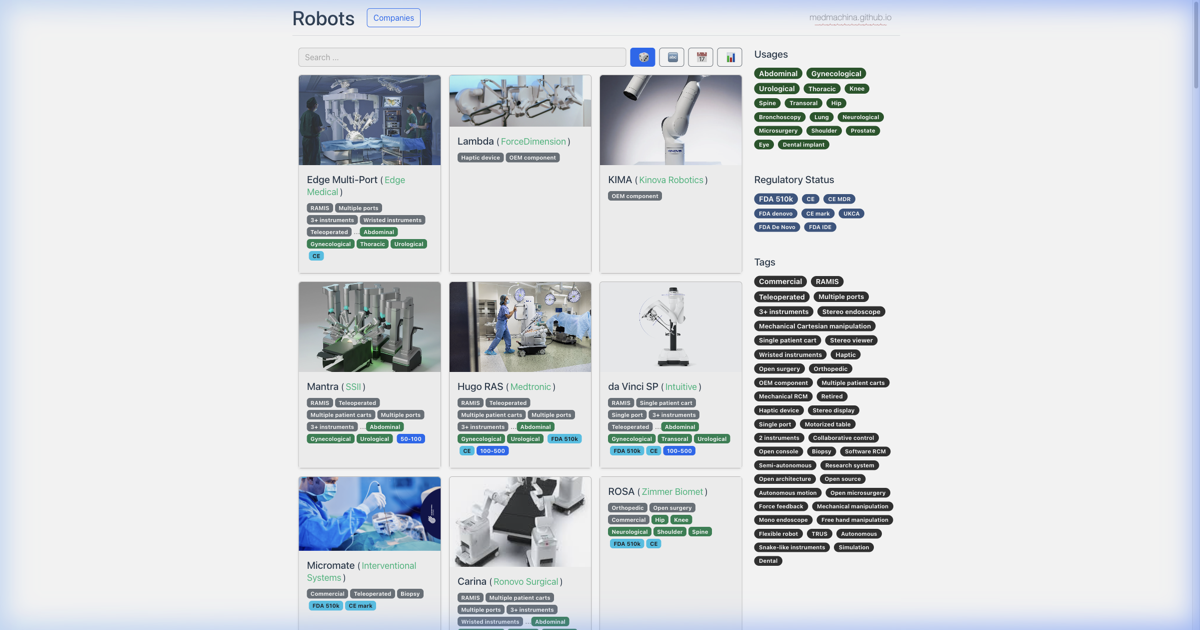
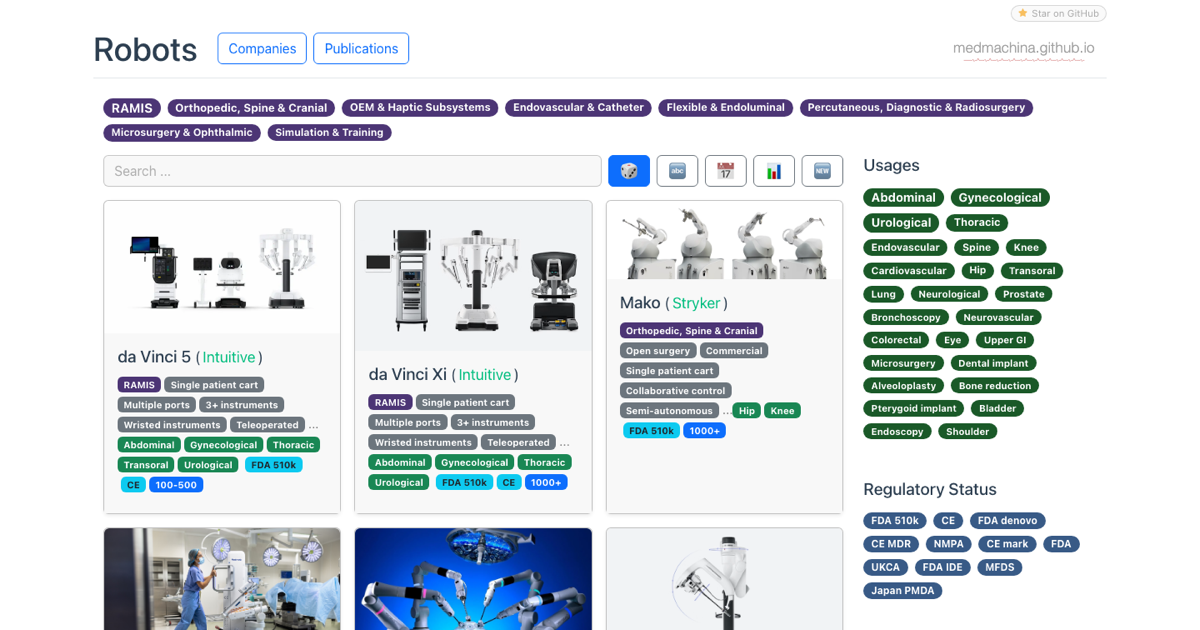
feat: add Twitter card meta tags and optimize SEO image selection for social previews

diff --git a/index.html b/index.html
@@ -17,12 +17,18 @@
     <meta name="description" content="A spare-time, best-effort directory listing medical and surgical robotics systems, companies, and regulatory approvals. Community contributions are welcome!" />
     <meta name="author" content="Med Machina" />
     <link rel="canonical" href="https://medmachina.github.io/" />
-    <!-- Open Graph meta tags -->
+    <!-- Open Graph & Social Preview meta tags -->
     <meta property="og:title" content="Medical Robots Directory | Med Machina" />
     <meta property="og:description" content="A spare-time, best-effort directory listing medical and surgical robotics systems, companies, and regulatory approvals. Community contributions are welcome!" />
     <meta property="og:image" content="https://medmachina.github.io/og/og-home.png" />
+    <meta property="og:image:width" content="1200" />
+    <meta property="og:image:height" content="630" />
     <meta property="og:type" content="website" />
     <meta property="og:url" content="https://medmachina.github.io/" />
+    <meta name="twitter:card" content="summary_large_image" />
+    <meta name="twitter:title" content="Medical Robots Directory | Med Machina" />
+    <meta name="twitter:description" content="A spare-time, best-effort directory listing medical and surgical robotics systems, companies, and regulatory approvals. Community contributions are welcome!" />
+    <meta name="twitter:image" content="https://medmachina.github.io/og/og-home.png" />
     <script type="application/ld+json">
     {
       "@context": "https://schema.org",

diff --git a/src/utils/seo.js b/src/utils/seo.js
@@ -47,12 +47,17 @@ export function updateSeo({
   // 3. Meta Description
   setMeta('meta[name="description"]', 'content', description);
 
-  // 4. Open Graph Tags
+  // 4. Open Graph & Twitter Card Tags
+  const fullImage = image.startsWith('http') ? image : `${BASE_URL}${image}`;
   setMeta('meta[property="og:title"]', 'content', title);
   setMeta('meta[property="og:description"]', 'content', description);
   setMeta('meta[property="og:url"]', 'content', canonicalUrl);
   setMeta('meta[property="og:type"]', 'content', type);
-  setMeta('meta[property="og:image"]', 'content', image.startsWith('http') ? image : `${BASE_URL}${image}`);
+  setMeta('meta[property="og:image"]', 'content', fullImage);
+  setMeta('meta[name="twitter:card"]', 'content', 'summary_large_image');
+  setMeta('meta[name="twitter:title"]', 'content', title);
+  setMeta('meta[name="twitter:description"]', 'content', description);
+  setMeta('meta[name="twitter:image"]', 'content', fullImage);
 
   // 5. JSON-LD Structured Data
   let jsonLdEl = document.getElementById('seo-jsonld');

diff --git a/src/components/HomeComponent.vue b/src/components/HomeComponent.vue
@@ -58,7 +58,25 @@ onMounted(async () => {
       return
     }
     originalItems.value = robots
-    items.value = shuffleArray(robots)
+    if (route.query.og === '1') {
+      const priorityIds = [
+        'intuitive_da_vinci_5',
+        'intuitive_da_vinci_Xi',
+        'stryker_mako',
+        'medtronic_hugo_ras',
+        'cmr_versius',
+        'intuitive_da_vinci_SP',
+        'j&j_ottava',
+        'globus_excelsius_gps',
+        'intuitive_ion'
+      ]
+      const byId = new Map(robots.map(r => [r.id, r]))
+      const top = priorityIds.map(id => byId.get(id)).filter(Boolean)
+      const rest = robots.filter(r => !priorityIds.includes(r.id) && r.photos && r.photos.length > 0)
+      items.value = [...top, ...rest]
+    } else {
+      items.value = shuffleArray(robots)
+    }
   } catch (err) {
     robotsError.value = `Error loading robots.json: ${err}`
   }

diff --git a/src/components/RobotDetail.vue b/src/components/RobotDetail.vue
@@ -277,7 +277,9 @@ function selectRobotById(id) {
     const compName = companyInfo.value?.name || '';
     const title = `${project.value.name}${compName ? ' by ' + compName : ''} - Medical Robot | Med Machina`;
     const description = `Specifications, regulatory history, videos, and manufacturer details for ${project.value.name}${compName ? ' (' + compName + ')' : ''}.`;
-    const photo = project.value.photos && project.value.photos[0] && project.value.photos[0].url ? project.value.photos[0].url : '/og/og-home.png';
+    const photosList = Array.isArray(project.value.photos) ? project.value.photos : [];
+    const compatiblePhoto = photosList.find(p => p?.url && !/\.(webp|avif|svg)(\?|$)/i.test(p.url));
+    const photo = compatiblePhoto?.url || '/og/og-home.png';
     const jsonLd = {
       '@context': 'https://schema.org',
       '@type': 'MedicalDevice',

diff --git a/src/components/DisclaimerModal.vue b/src/components/DisclaimerModal.vue
@@ -24,8 +24,9 @@ function openHandler() {
 }
 
 onMounted(() => {
+  const isOgPreview = new URLSearchParams(window.location.search).get('og') === '1';
   const hasSeenDisclaimer = localStorage.getItem('hasSeenDisclaimer');
-  if (!hasSeenDisclaimer) {
+  if (!hasSeenDisclaimer && !isOgPreview) {
     showModal.value = true;
   }
 

diff --git a/scripts/generate_seo.py b/scripts/generate_seo.py
@@ -172,14 +172,19 @@ def build_prerender_html(template, title, description, canonical_url, image_url,
     else:
         html_out = html_out.replace('</head>', f'  <link rel="canonical" href="{escaped_canonical_url}" />\n  </head>')
 
-    # Open Graph replacement
+    # Open Graph & Twitter Card replacement
     html_out = re.sub(r'<meta property="og:title"[^>]*>', lambda m: f'<meta property="og:title" content="{escaped_title}" />', html_out)
     html_out = re.sub(r'<meta property="og:description"[^>]*>', lambda m: f'<meta property="og:description" content="{escaped_description}" />', html_out)
     html_out = re.sub(r'<meta property="og:url"[^>]*>', lambda m: f'<meta property="og:url" content="{escaped_canonical_url}" />', html_out)
+    html_out = re.sub(r'<meta name="twitter:title"[^>]*>', lambda m: f'<meta name="twitter:title" content="{escaped_title}" />', html_out)
+    html_out = re.sub(r'<meta name="twitter:description"[^>]*>', lambda m: f'<meta name="twitter:description" content="{escaped_description}" />', html_out)
     if image_url:
         full_image = image_url if image_url.startswith('http') else f"{BASE_URL}{image_url}"
         escaped_image_url = html.escape(full_image, quote=True)
         html_out = re.sub(r'<meta property="og:image"[^>]*>', lambda m: f'<meta property="og:image" content="{escaped_image_url}" />', html_out)
+        html_out = re.sub(r'<meta name="twitter:image"[^>]*>', lambda m: f'<meta name="twitter:image" content="{escaped_image_url}" />', html_out)
+        if image_url != "/og/og-home.png":
+            html_out = re.sub(r'\s*<meta property="og:image:(width|height)"[^>]*>', '', html_out)
 
     # JSON-LD injection
     if json_ld:
@@ -225,7 +230,11 @@ def prerender_dist(robots_data, companies_data):
         canonical_url = f"{BASE_URL}/robot/{r_id}"
         
         photos = robot.get("photos", [])
-        image_url = photos[0]["url"] if photos and isinstance(photos, list) and len(photos) > 0 and "url" in photos[0] else "/og/og-home.png"
+        compatible_photos = [
+            p["url"] for p in (photos if isinstance(photos, list) else [])
+            if isinstance(p, dict) and p.get("url") and not re.search(r'\.(webp|avif|svg)(\?|$)', p["url"], re.IGNORECASE)
+        ]
+        image_url = compatible_photos[0] if compatible_photos else "/og/og-home.png"
 
         json_ld = {
             "@context": "https://schema.org",
